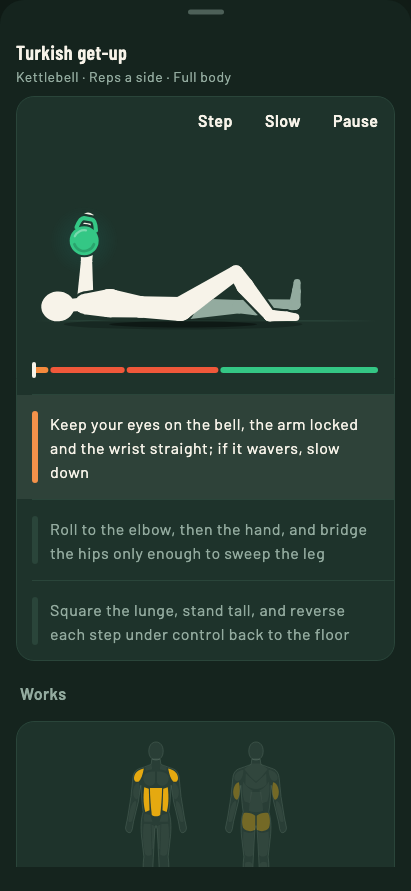
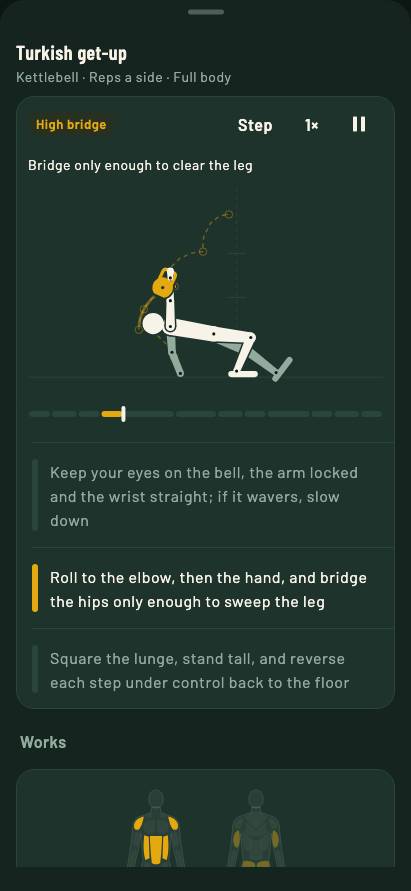
Docs: the exercise page's screenshot shows its one card. docs/screenshots/15_exercise.png was the Turkish get-up's page with the figure's card, which the page no longer has: it is redrawn, the same sheet at the same size and theme, with the get-up from the side at the high bridge, its bell's path, S

diff --git a/README.md b/README.md
@@ -58,9 +58,9 @@ Built with **Compose Multiplatform** for **Android** and **iOS**, powered by the
 | <img src="docs/screenshots/07_timer.png" width="200" alt="Timer"/> | <img src="docs/screenshots/08_cap.png" width="200" alt="A time cap running"/> | <img src="docs/screenshots/09_workout.png" width="200" alt="Running workout"/> | <img src="docs/screenshots/10_summary.png" width="200" alt="Workout summary"/> |
 | *Work, rest, rounds, sets, warm-up and cool-down, with the total and a calorie estimate* | *As many rounds as you can: tap Round done, with the pace of the round under way* | *The phase, the clock, the round and what comes next* | *Time, rounds and calories, then "How was it?" and a note* |
 
-| Lift: an EMOM running | Exercise library | An exercise shown by a figure | Tablet |
+| Lift: an EMOM running | Exercise library | A lift drawn with its bell's path | Tablet |
 |:---:|:---:|:---:|:---:|
-| <img src="docs/screenshots/11_lift_emom.png" width="200" alt="EMOM in a Lift session"/> | <img src="docs/screenshots/14_library.png" width="200" alt="Exercise library"/> | <img src="docs/screenshots/15_exercise.png" width="200" alt="Turkish get-up, shown by a figure"/> | <img src="docs/screenshots/16_tablet_today.png" width="320" alt="Today on a tablet"/> |
+| <img src="docs/screenshots/11_lift_emom.png" width="200" alt="EMOM in a Lift session"/> | <img src="docs/screenshots/14_library.png" width="200" alt="Exercise library"/> | <img src="docs/screenshots/15_exercise.png" width="200" alt="Turkish get-up, drawn from the side with its bell's path"/> | <img src="docs/screenshots/16_tablet_today.png" width="320" alt="Today on a tablet"/> |
 | *The Armor Building Complex, a pair of bells every minute* | *134 lifts across kettlebell, barbell, bodyweight, band and mat* | *A rep animated beside its cues, step by step* | *A navigation rail and two columns on a wide window* |
 
 ---
@@ -92,7 +92,7 @@ Built with **Compose Multiplatform** for **Android** and **iOS**, powered by the
 - **Session Duration Estimates**: Displays estimated workout times (`"about 20 min"`, `"about 12–15 min"`) across Today, program cards, and day sheets — calculated from sets, reps, movement pace, EMOM minutes, and your configured rest between sets.
 - **Make It Yours**: Clone any built-in program into a customizable copy (`(yours)`) to modify rep ranges, timed holds, resistance bands, double bells, and schedules while keeping your current day and progression.
 - **Rep Progression & Balance Preview**: Programs build volume within a rep range, then denser, then a harder lift at the same bell, before stepping up to the next bell or band; "Very hard" or "All out" exertion ratings hold step-ups back until approved. Program sheets preview weekly muscle balance and highlight untargeted groups.
-- **130+ Exercise Library, Body Maps & Loaded Carries**: 134 built-in movements across kettlebells (including 18/22/26/30 kg competition bells, half snatch, push press, and timed farmer's, suitcase, rack, and bottoms-up carries), barbell, bodyweight, bands, and mat Pilates. Every movement is shown by a full-body animated figure with Step/Slow/Pause playback beside its form cues, a front-and-back muscle body map, a line of each session's best (weight × reps) over the latest 24 with a dashed rule at each move to another bell, lifetime totals, best pace, and custom exercises that can reuse any built-in figure.
+- **130+ Exercise Library, Body Maps & Loaded Carries**: 134 built-in movements across kettlebells (including 18/22/26/30 kg competition bells, half snatch, push press, and timed farmer's, suitcase, rack, and bottoms-up carries), barbell, bodyweight, bands, and mat Pilates. Every movement is shown by a full-body animated figure, the eight flagship kettlebell lifts by a side-on diagram of the bell's path instead, with Step, slow and pause playback beside its form cues, a front-and-back muscle body map, a line of each session's best (weight × reps) over the latest 24 with a dashed rule at each move to another bell, lifetime totals, best pace, and custom exercises that can reuse any built-in figure.
 - **Session Tracking, Loaders & Muscle Balance**: Log sets, loads (visual kettlebell rack, barbell plate loader, bodyweight + load, bands), reps, EMOM timers, hold clocks, and automatic rest intervals, with a 4-week balance card and muscle body map across 7 muscle groups separating primary and assisting volume.
 - **Screen-Off Timers, Survivability & PRs**: Android counts rests, EMOMs, and timed holds on the lock screen with Live Update chips, wake locks, and beeps; iOS posts local notifications when locked. Active sessions, timers, and drafts survive background process death, with automatic PR detection (including heaviest and longest carry records).
 

diff --git a/docs/index.md b/docs/index.md
@@ -89,7 +89,7 @@ on Android and iOS.** Everything stays on your device: no account, no analytics,
 <figure markdown>![A workout running](screenshots/09_workout.png)<figcaption>A workout running</figcaption></figure>
 <figure markdown>![An EMOM in a Lift session](screenshots/11_lift_emom.png)<figcaption>An EMOM in Lift</figcaption></figure>
 <figure markdown>![The Log](screenshots/12_log_week.png)<figcaption>The Log</figcaption></figure>
-<figure markdown>![An exercise shown by a figure](screenshots/15_exercise.png)<figcaption>Exercises & body map</figcaption></figure>
+<figure markdown>![An exercise drawn from the side with its bell's path](screenshots/15_exercise.png)<figcaption>Exercises & body map</figcaption></figure>
 </div>
 
 ## Where it runs
